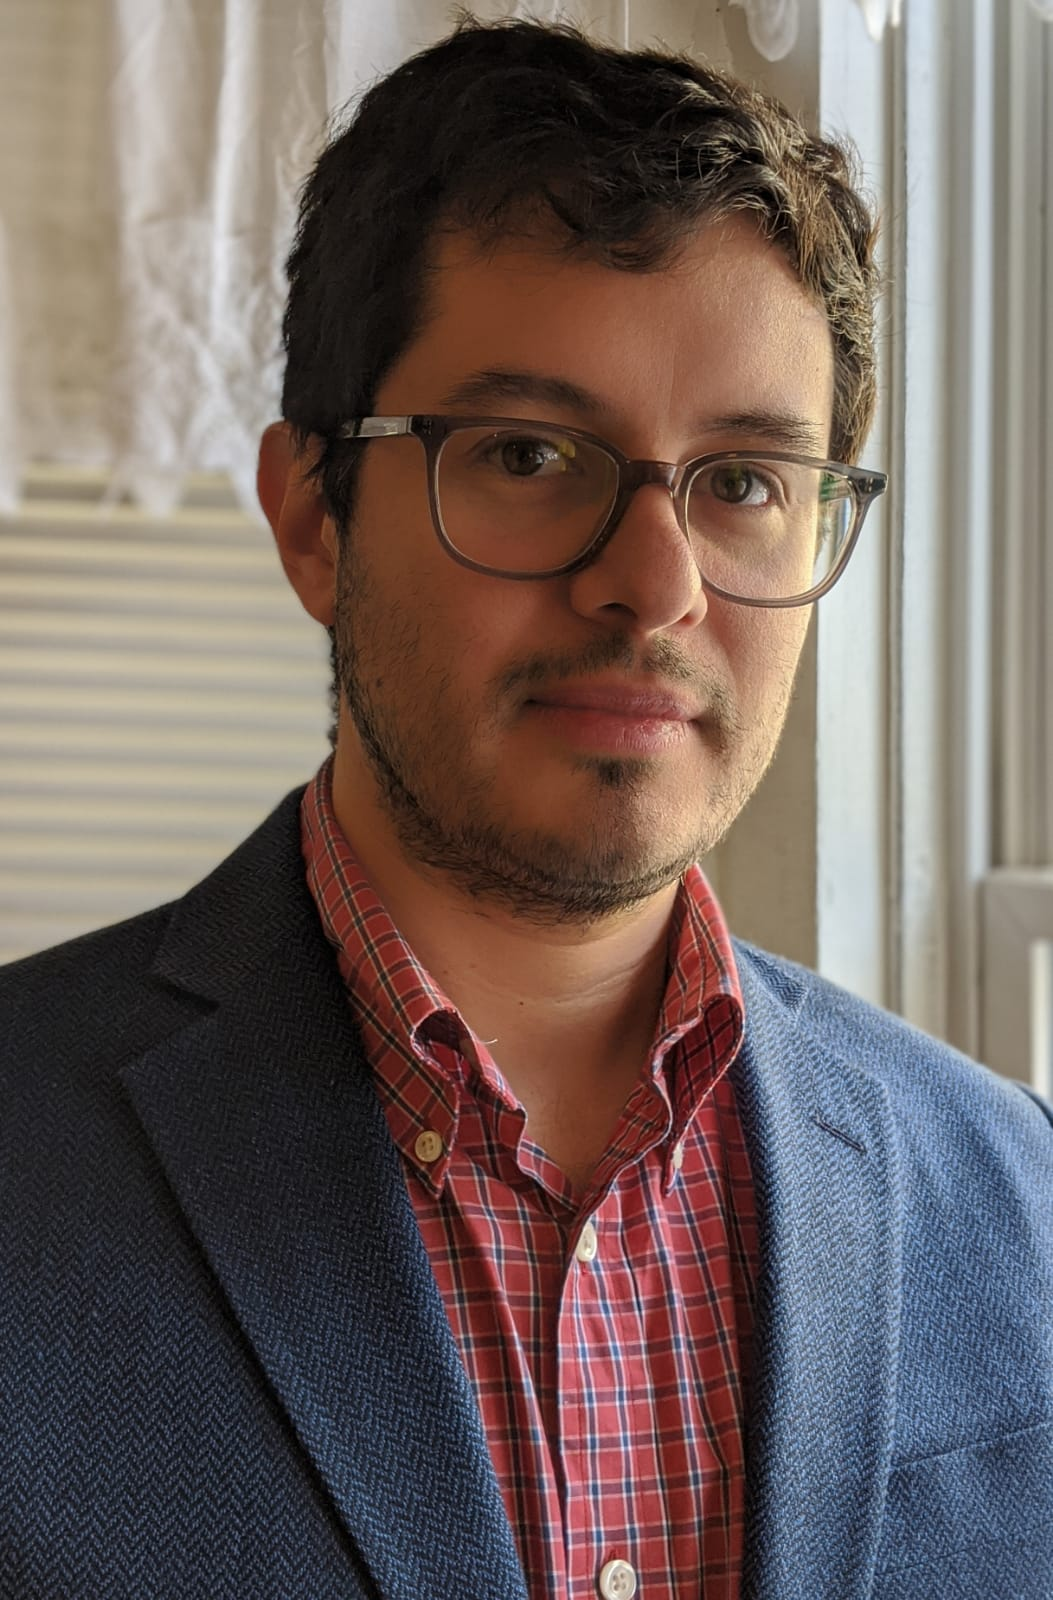
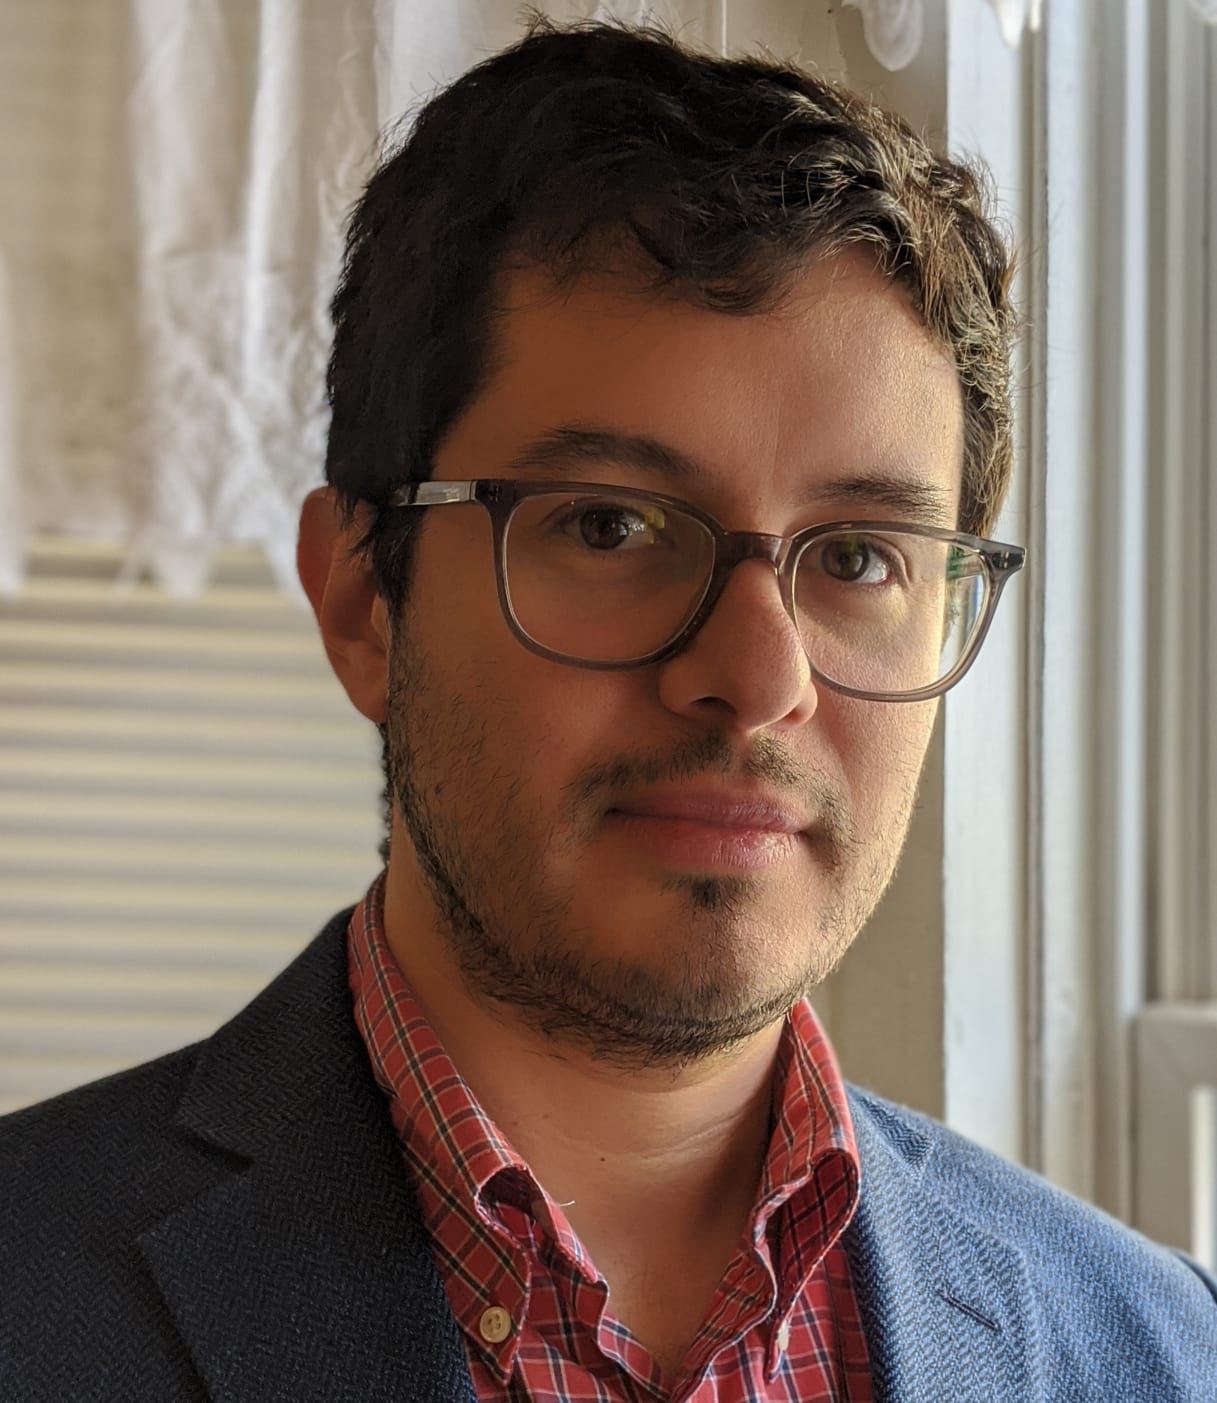
change photo

diff --git a/authors/admin/index.html b/authors/admin/index.html
@@ -347,7 +347,7 @@
 
       
       
-      <img class="portrait" src="/authors/admin/avatar_hue1ab848f2f3de0b49a3ee901bba72691_219566_250x250_fill_q90_lanczos_center.jpg" itemprop="image" alt="Avatar">
+      <img class="portrait" src="/authors/admin/avatar_hu3657ad6268dadf1d98fc61c992707a46_176236_250x250_fill_q90_lanczos_center.jpg" itemprop="image" alt="Avatar">
       
 
       <div class="portrait-title">

diff --git a/index.html b/index.html
@@ -385,7 +385,7 @@
 
       
       
-      <img class="portrait" src="/authors/admin/avatar_hue1ab848f2f3de0b49a3ee901bba72691_219566_250x250_fill_q90_lanczos_center.jpg" itemprop="image" alt="Avatar">
+      <img class="portrait" src="/authors/admin/avatar_hu3657ad6268dadf1d98fc61c992707a46_176236_250x250_fill_q90_lanczos_center.jpg" itemprop="image" alt="Avatar">
       
 
       <div class="portrait-title">
